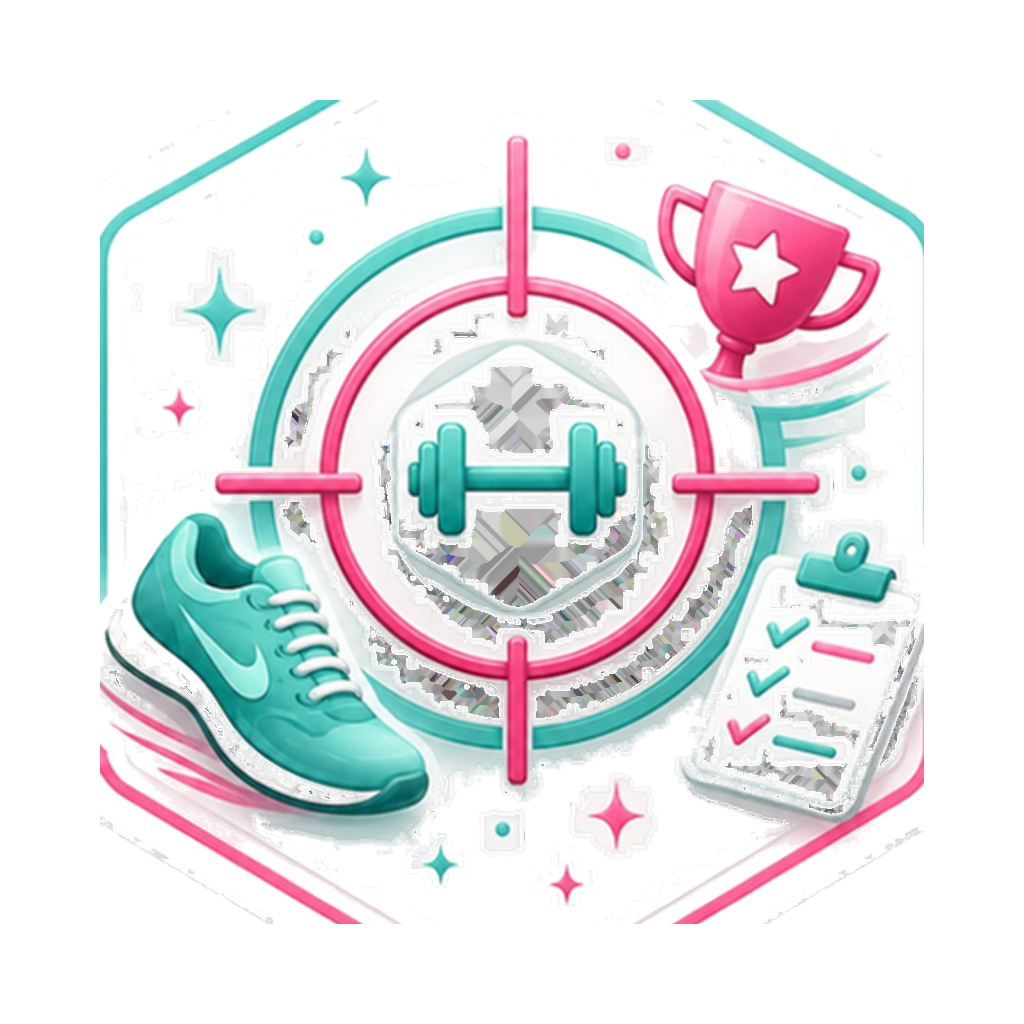
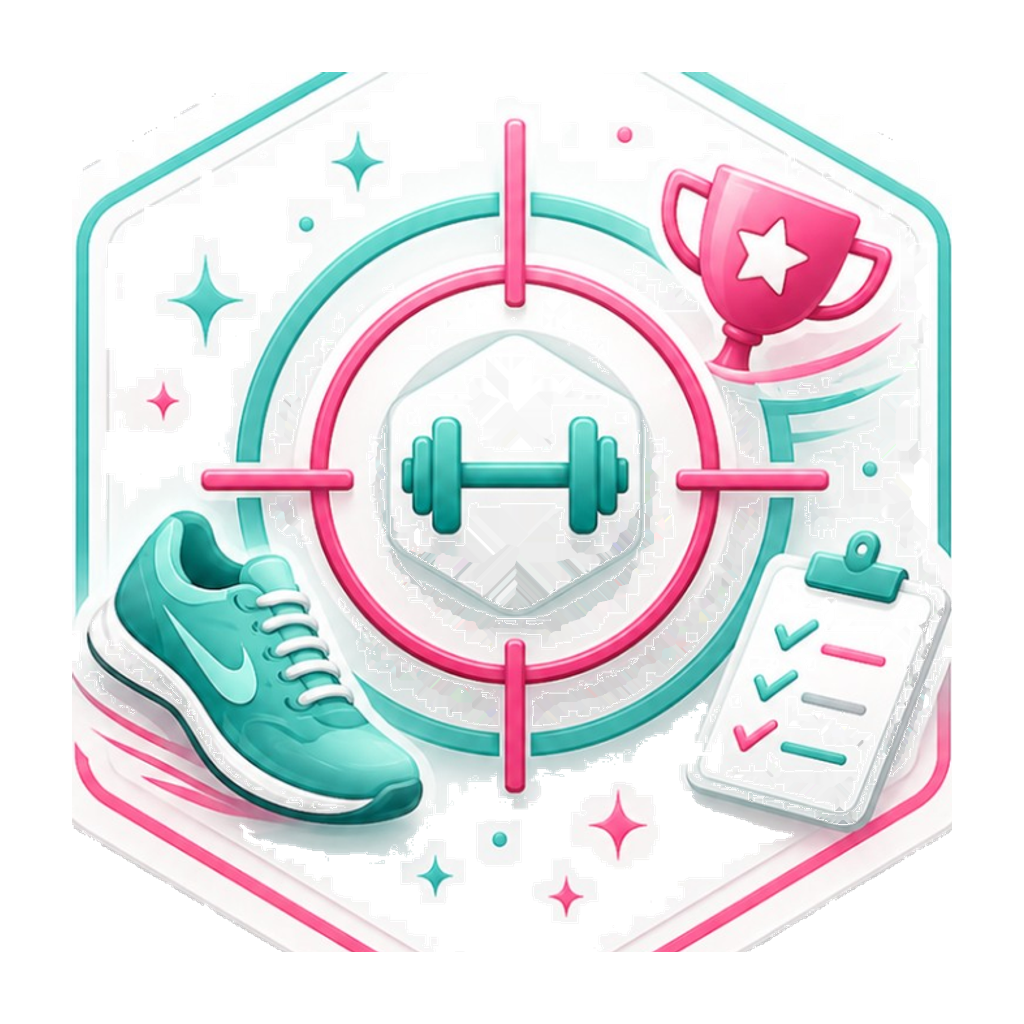
Restore complete Oektjeger badge artwork

diff --git a/src/app/badgeAssets.ts b/src/app/badgeAssets.ts
@@ -1,5 +1,5 @@
 /** Felles badge-bilder (PNG 1024×1024, normalisert visuell størrelse). */
-export const BADGE_ASSET_VERSION = "15";
+export const BADGE_ASSET_VERSION = "16";
 
 export function badgeAssetUrl(path: string): string {
   const base = path.split("?")[0] || path;
